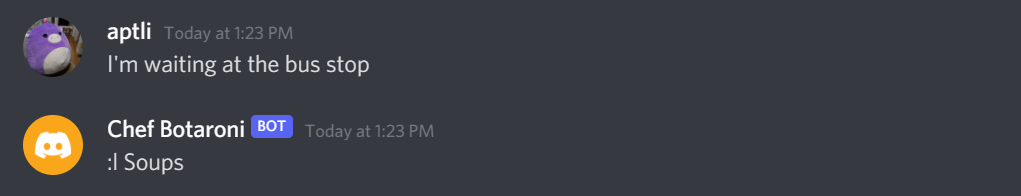
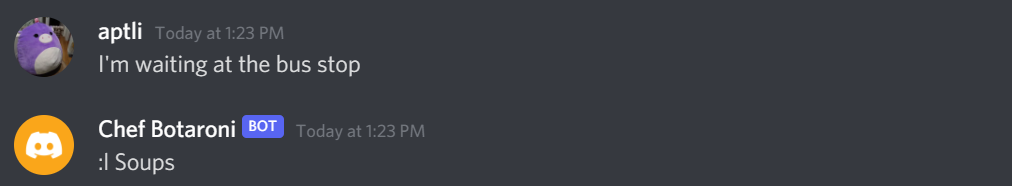
Adjust image size

Changed region(s): [[0.0, 0.5645, 0.4289, 0.9409], [0.0, 0.0806, 0.3676, 0.4301]]

diff --git a/README.md b/README.md
@@ -26,7 +26,7 @@ Chef Botaroni displays a list of user input messages with the `$chef_botaroni_li
 <img src="images/chef_botaroni_db_list.png" width="600" height="100"><br/>
 
 Chef Botaroni can delete user input messages from is database with the `$chef_botaroni_del` command:<br/>
-<img src="images/chef_botaroni_del_db_item.png" width="600" height="160"><br/>
+<img src="images/chef_botaroni_del_db_item.png" width="600" height="170"><br/>
 
 Chef Botaroni's responses can turn off with the `$chef_botaroni_responding` command:<br/>
 <img src="images/chef_botaroni_response_settings.png" width="600" height="170"><br/>
